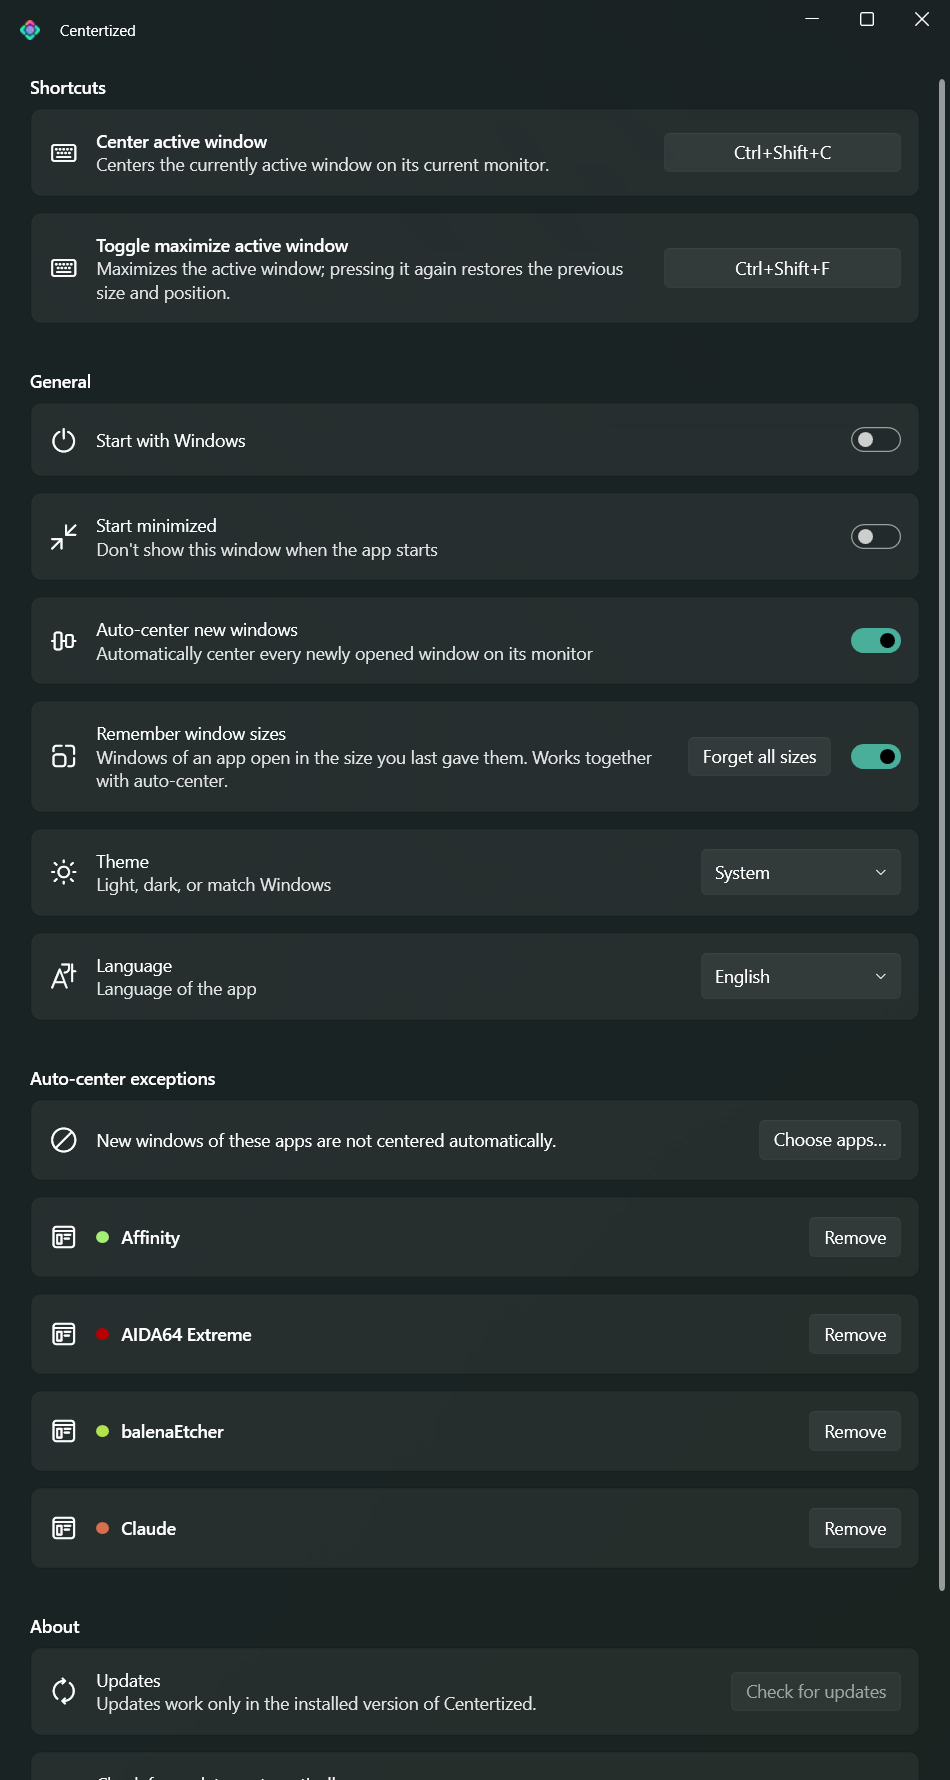
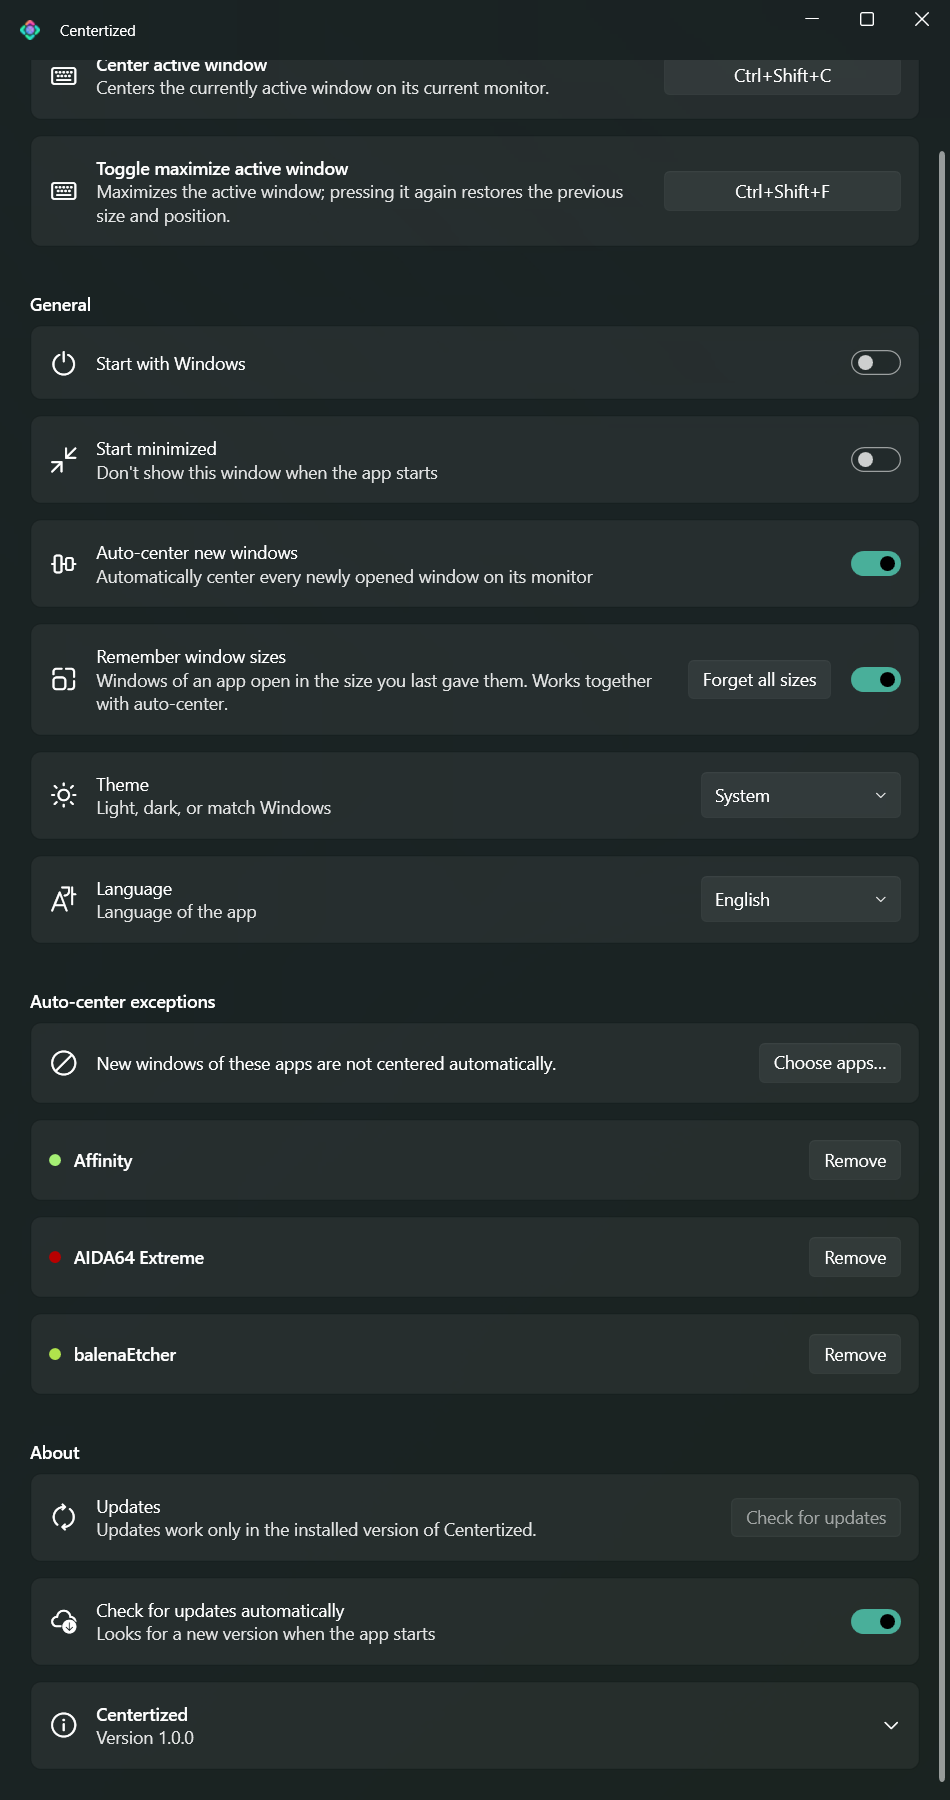
Plynulé scrollování v seznamu výběru aplikací, výjimky jen s barevnou tečkou
SmoothScrollBehavior jde zapnout i na hostiteli se scrollováním uvnitř
(ListBox) - vnitřní ScrollViewer se hledá až při prvním otočení kolečka.
Seznam v okně Vybrat aplikace přepnutý na pixelové scrollování. Řádky
výjimek v hlavním okně bez ikony, jen s tečkou. Nový screenshot v README.

diff --git a/src/Centertized/Views/InstalledAppsWindow.xaml b/src/Centertized/Views/InstalledAppsWindow.xaml
@@ -2,6 +2,7 @@
                  xmlns="http://schemas.microsoft.com/winfx/2006/xaml/presentation"
                  xmlns:x="http://schemas.microsoft.com/winfx/2006/xaml"
                  xmlns:ui="http://schemas.lepo.co/wpfui/2022/xaml"
+                 xmlns:controls="clr-namespace:Centertized.Controls"
                  Title="{DynamicResource Picker.Title}"
                  Width="560" Height="640"
                  MinWidth="420" MinHeight="420"
@@ -33,6 +34,8 @@
             <ListBox x:Name="AppsListBox" Visibility="Collapsed"
                      ScrollViewer.HorizontalScrollBarVisibility="Disabled"
                      VirtualizingPanel.IsVirtualizing="True"
+                     VirtualizingPanel.ScrollUnit="Pixel"
+                     controls:SmoothScrollBehavior.Enable="True"
                      HorizontalContentAlignment="Stretch">
                 <ListBox.ItemContainerStyle>
                     <Style TargetType="ListBoxItem" BasedOn="{StaticResource {x:Type ListBoxItem}}">

diff --git a/src/Centertized/Views/SettingsWindow.xaml b/src/Centertized/Views/SettingsWindow.xaml
@@ -159,7 +159,7 @@
                 <ItemsControl x:Name="ExceptionsList">
                     <ItemsControl.ItemTemplate>
                         <DataTemplate>
-                            <ui:CardControl Margin="0,0,0,12" Icon="{ui:SymbolIcon AppGeneric24}">
+                            <ui:CardControl Margin="0,0,0,12">
                                 <ui:CardControl.Header>
                                     <StackPanel Orientation="Horizontal">
                                         <!-- Barva puntíku = dominantní barva ikony aplikace (viz AccentColorExtractor). -->

diff --git a/src/Centertized/Controls/SmoothScrollBehavior.cs b/src/Centertized/Controls/SmoothScrollBehavior.cs
@@ -1,6 +1,7 @@
 using System.Windows;
 using System.Windows.Controls;
 using System.Windows.Input;
+using System.Windows.Media;
 using System.Windows.Media.Animation;
 
 namespace Centertized.Controls;
@@ -40,24 +41,62 @@ public static class SmoothScrollBehavior
 
     private static void OnEnableChanged(DependencyObject d, DependencyPropertyChangedEventArgs e)
     {
-        if (d is not ScrollViewer scrollViewer)
+        var enable = (bool)e.NewValue;
+
+        if (d is ScrollViewer scrollViewer)
         {
+            scrollViewer.PreviewMouseWheel -= OnPreviewMouseWheel;
+            if (enable)
+            {
+                scrollViewer.PreviewMouseWheel += OnPreviewMouseWheel;
+            }
+
             return;
         }
 
-        if ((bool)e.NewValue)
+        // Jiný prvek se scrollováním uvnitř (ListBox, ItemsControl...): ScrollViewer je až v jeho
+        // šabloně, která v době zapnutí ještě nemusí existovat (např. prvek je Collapsed), proto se
+        // na kolečko čeká na hostiteli a vnitřní ScrollViewer se hledá až při prvním otočení.
+        if (d is UIElement host)
         {
-            scrollViewer.PreviewMouseWheel += OnPreviewMouseWheel;
-        }
-        else
-        {
-            scrollViewer.PreviewMouseWheel -= OnPreviewMouseWheel;
+            host.PreviewMouseWheel -= OnHostPreviewMouseWheel;
+            if (enable)
+            {
+                host.PreviewMouseWheel += OnHostPreviewMouseWheel;
+            }
         }
     }
 
-    private static void OnPreviewMouseWheel(object sender, MouseWheelEventArgs e)
+    private static void OnHostPreviewMouseWheel(object sender, MouseWheelEventArgs e)
     {
-        var scrollViewer = (ScrollViewer)sender;
+        if (FindScrollViewer((DependencyObject)sender) is { } scrollViewer)
+        {
+            Animate(scrollViewer, e);
+        }
+    }
+
+    private static ScrollViewer? FindScrollViewer(DependencyObject root)
+    {
+        if (root is ScrollViewer self)
+        {
+            return self;
+        }
+
+        for (var i = 0; i < VisualTreeHelper.GetChildrenCount(root); i++)
+        {
+            if (FindScrollViewer(VisualTreeHelper.GetChild(root, i)) is { } found)
+            {
+                return found;
+            }
+        }
+
+        return null;
+    }
+
+    private static void OnPreviewMouseWheel(object sender, MouseWheelEventArgs e) => Animate((ScrollViewer)sender, e);
+
+    private static void Animate(ScrollViewer scrollViewer, MouseWheelEventArgs e)
+    {
         e.Handled = true;
 
         // Navázat na cíl předchozí (ještě běžící) animace, ne na aktuální
